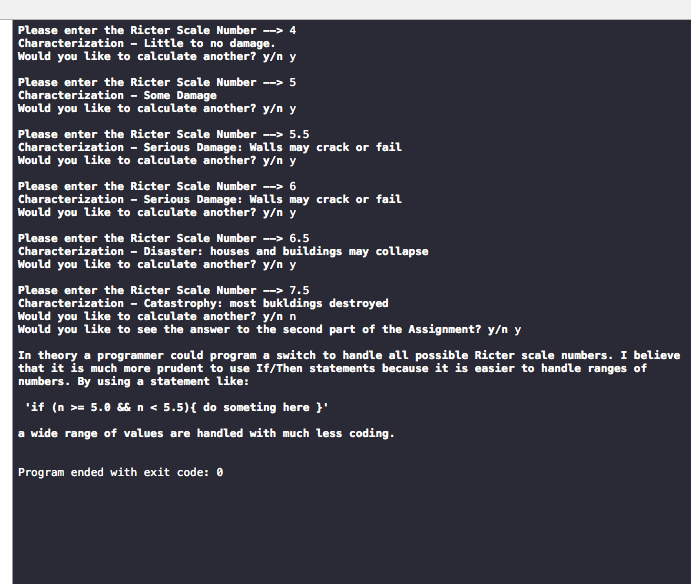
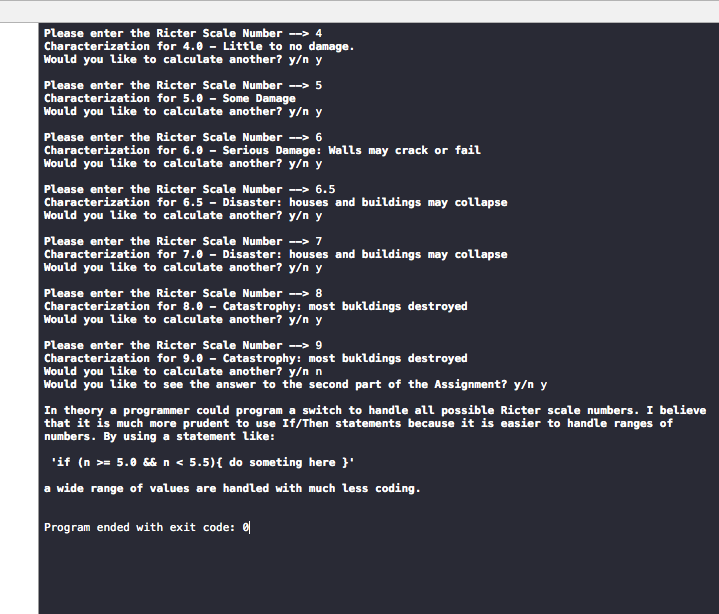
modified:   Chapter4/Chpt4PP5.png 	modified:   Chapter4/Chpt4PP5/Chpt4PP5/main.c

Changed region(s): [[0.0, 0.0308, 1.0, 1.0]]

diff --git a/Chapter4/Chpt4PP5/Chpt4PP5/main.c b/Chapter4/Chpt4PP5/Chpt4PP5/main.c
@@ -116,33 +116,34 @@ void outputCharacterization(float n){
     
 };
 
+
 void outputLittleOrNoDamage(float n){
 
-    printf("Characterization - Little to no damage.\n");
+    printf("Characterization for %.1lf - Little to no damage.\n",n);
 
 }
 
 void outputSomeDamage(float n){
 
-    printf("Characterization - Some Damage\n");
+    printf("Characterization for %.1lf - Some Damage\n",n);
     
 }
 
 void outputSeriousDamage(float n){
 
-    printf("Characterization - Serious Damage: Walls may crack or fail\n");
+    printf("Characterization for %.1lf - Serious Damage: Walls may crack or fail\n",n);
     
 }
 
 void outputDisaster(float n){
 
-    printf("Characterization - Disaster: houses and buildings may collapse\n");
+    printf("Characterization for %.1lf - Disaster: houses and buildings may collapse\n",n);
     
 }
 
 void outputCatastrophy(float n){
 
-    printf("Characterization - Catastrophy: most bukldings destroyed\n");
+    printf("Characterization for %.1lf - Catastrophy: most bukldings destroyed\n",n);
     
 }
 
